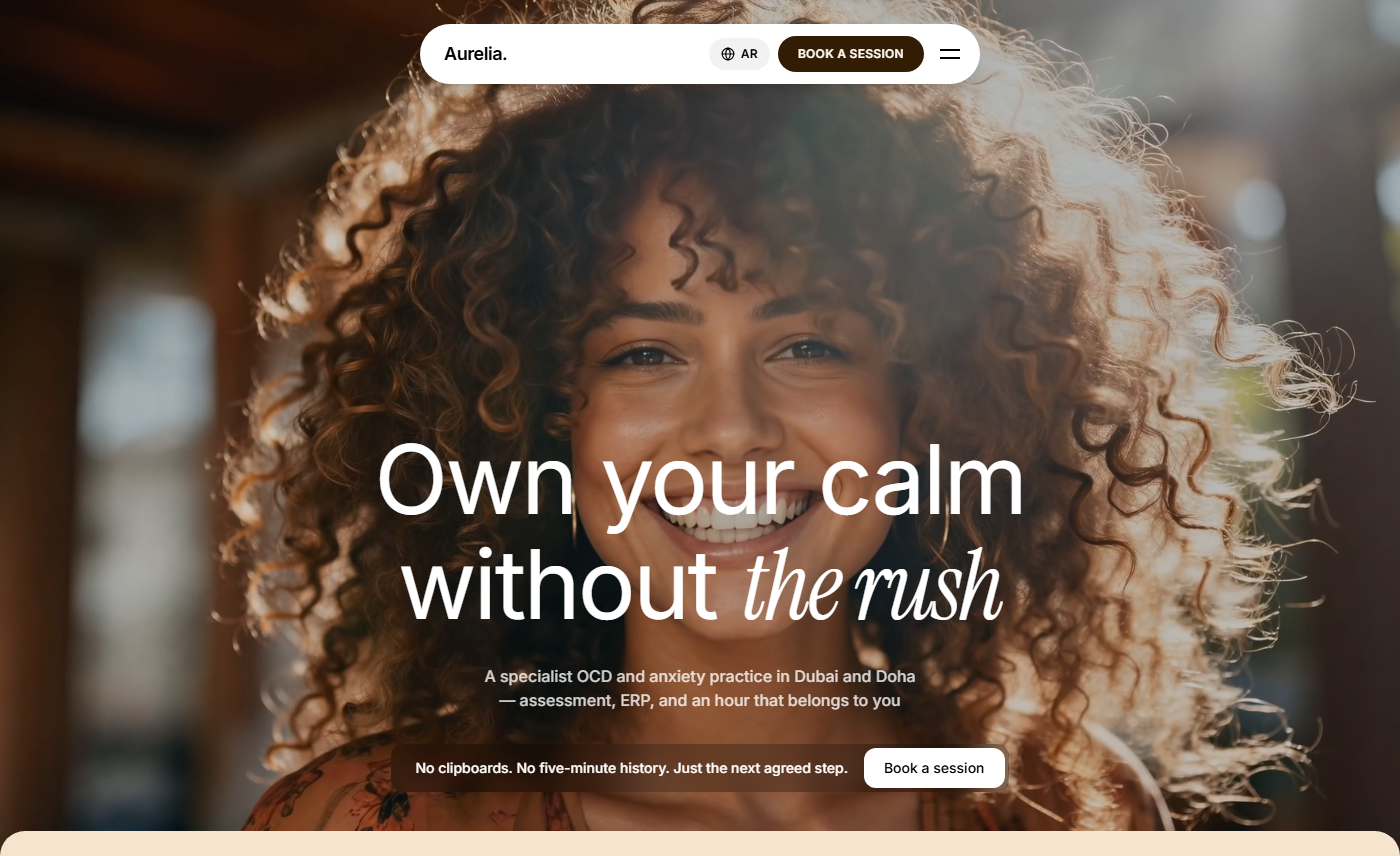
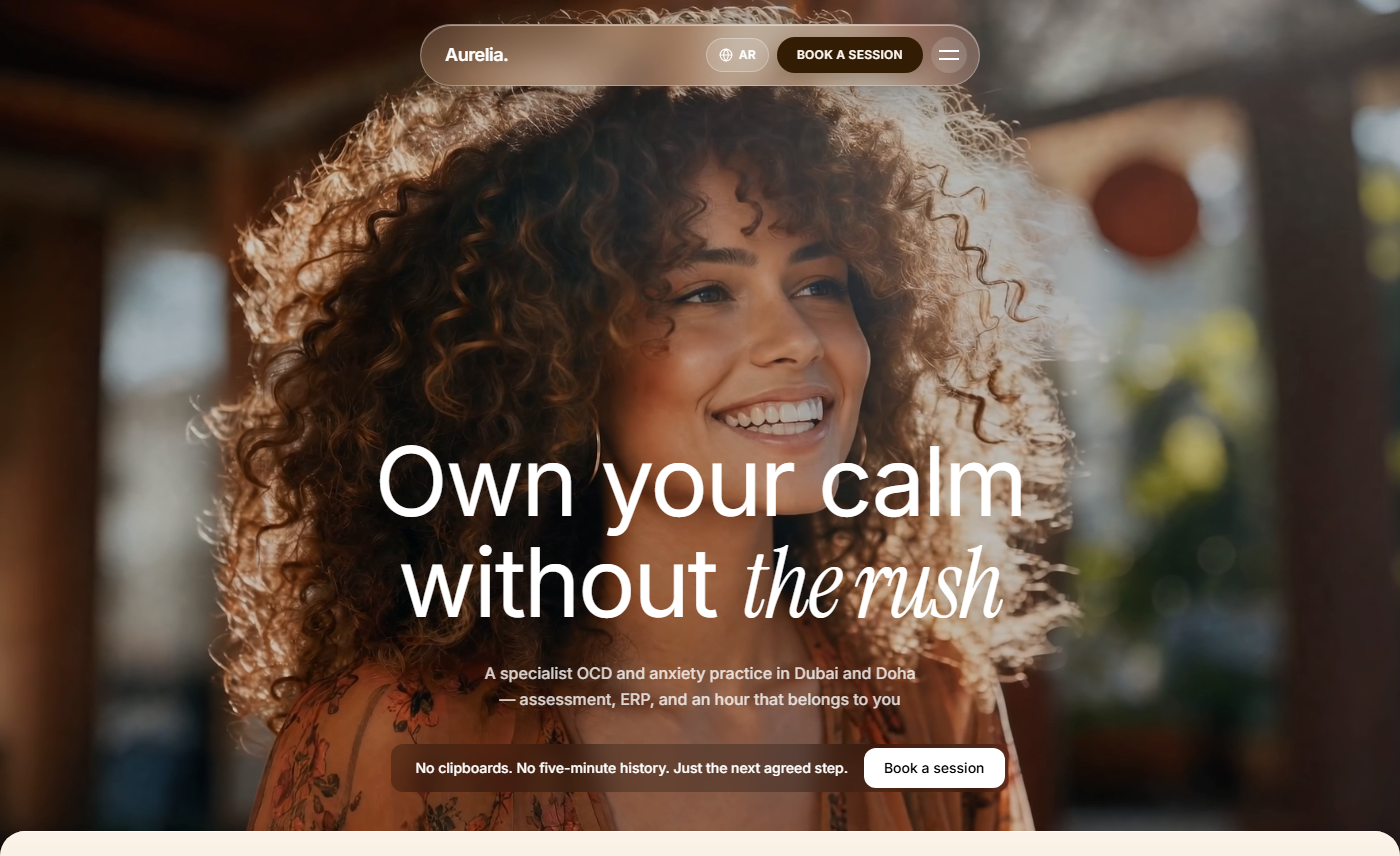
Update Aurelia project to its latest deployment
Point the Aurelia work entry to the current live URL and refresh the
card screenshot to match.

diff --git a/src/data/works.ts b/src/data/works.ts
@@ -114,6 +114,6 @@ export const works: Work[] = [
     tags: ["Healthcare", "Landing Page", "Web Design"],
     image: "/assets/images/section/work-9.png",
     logo: "/assets/images/logo/logo-mvp-dark.svg",
-    link: "https://aurelia-clinical.vercel.app/",
+    link: "https://ocd-eight.vercel.app/",
   },
 ];
